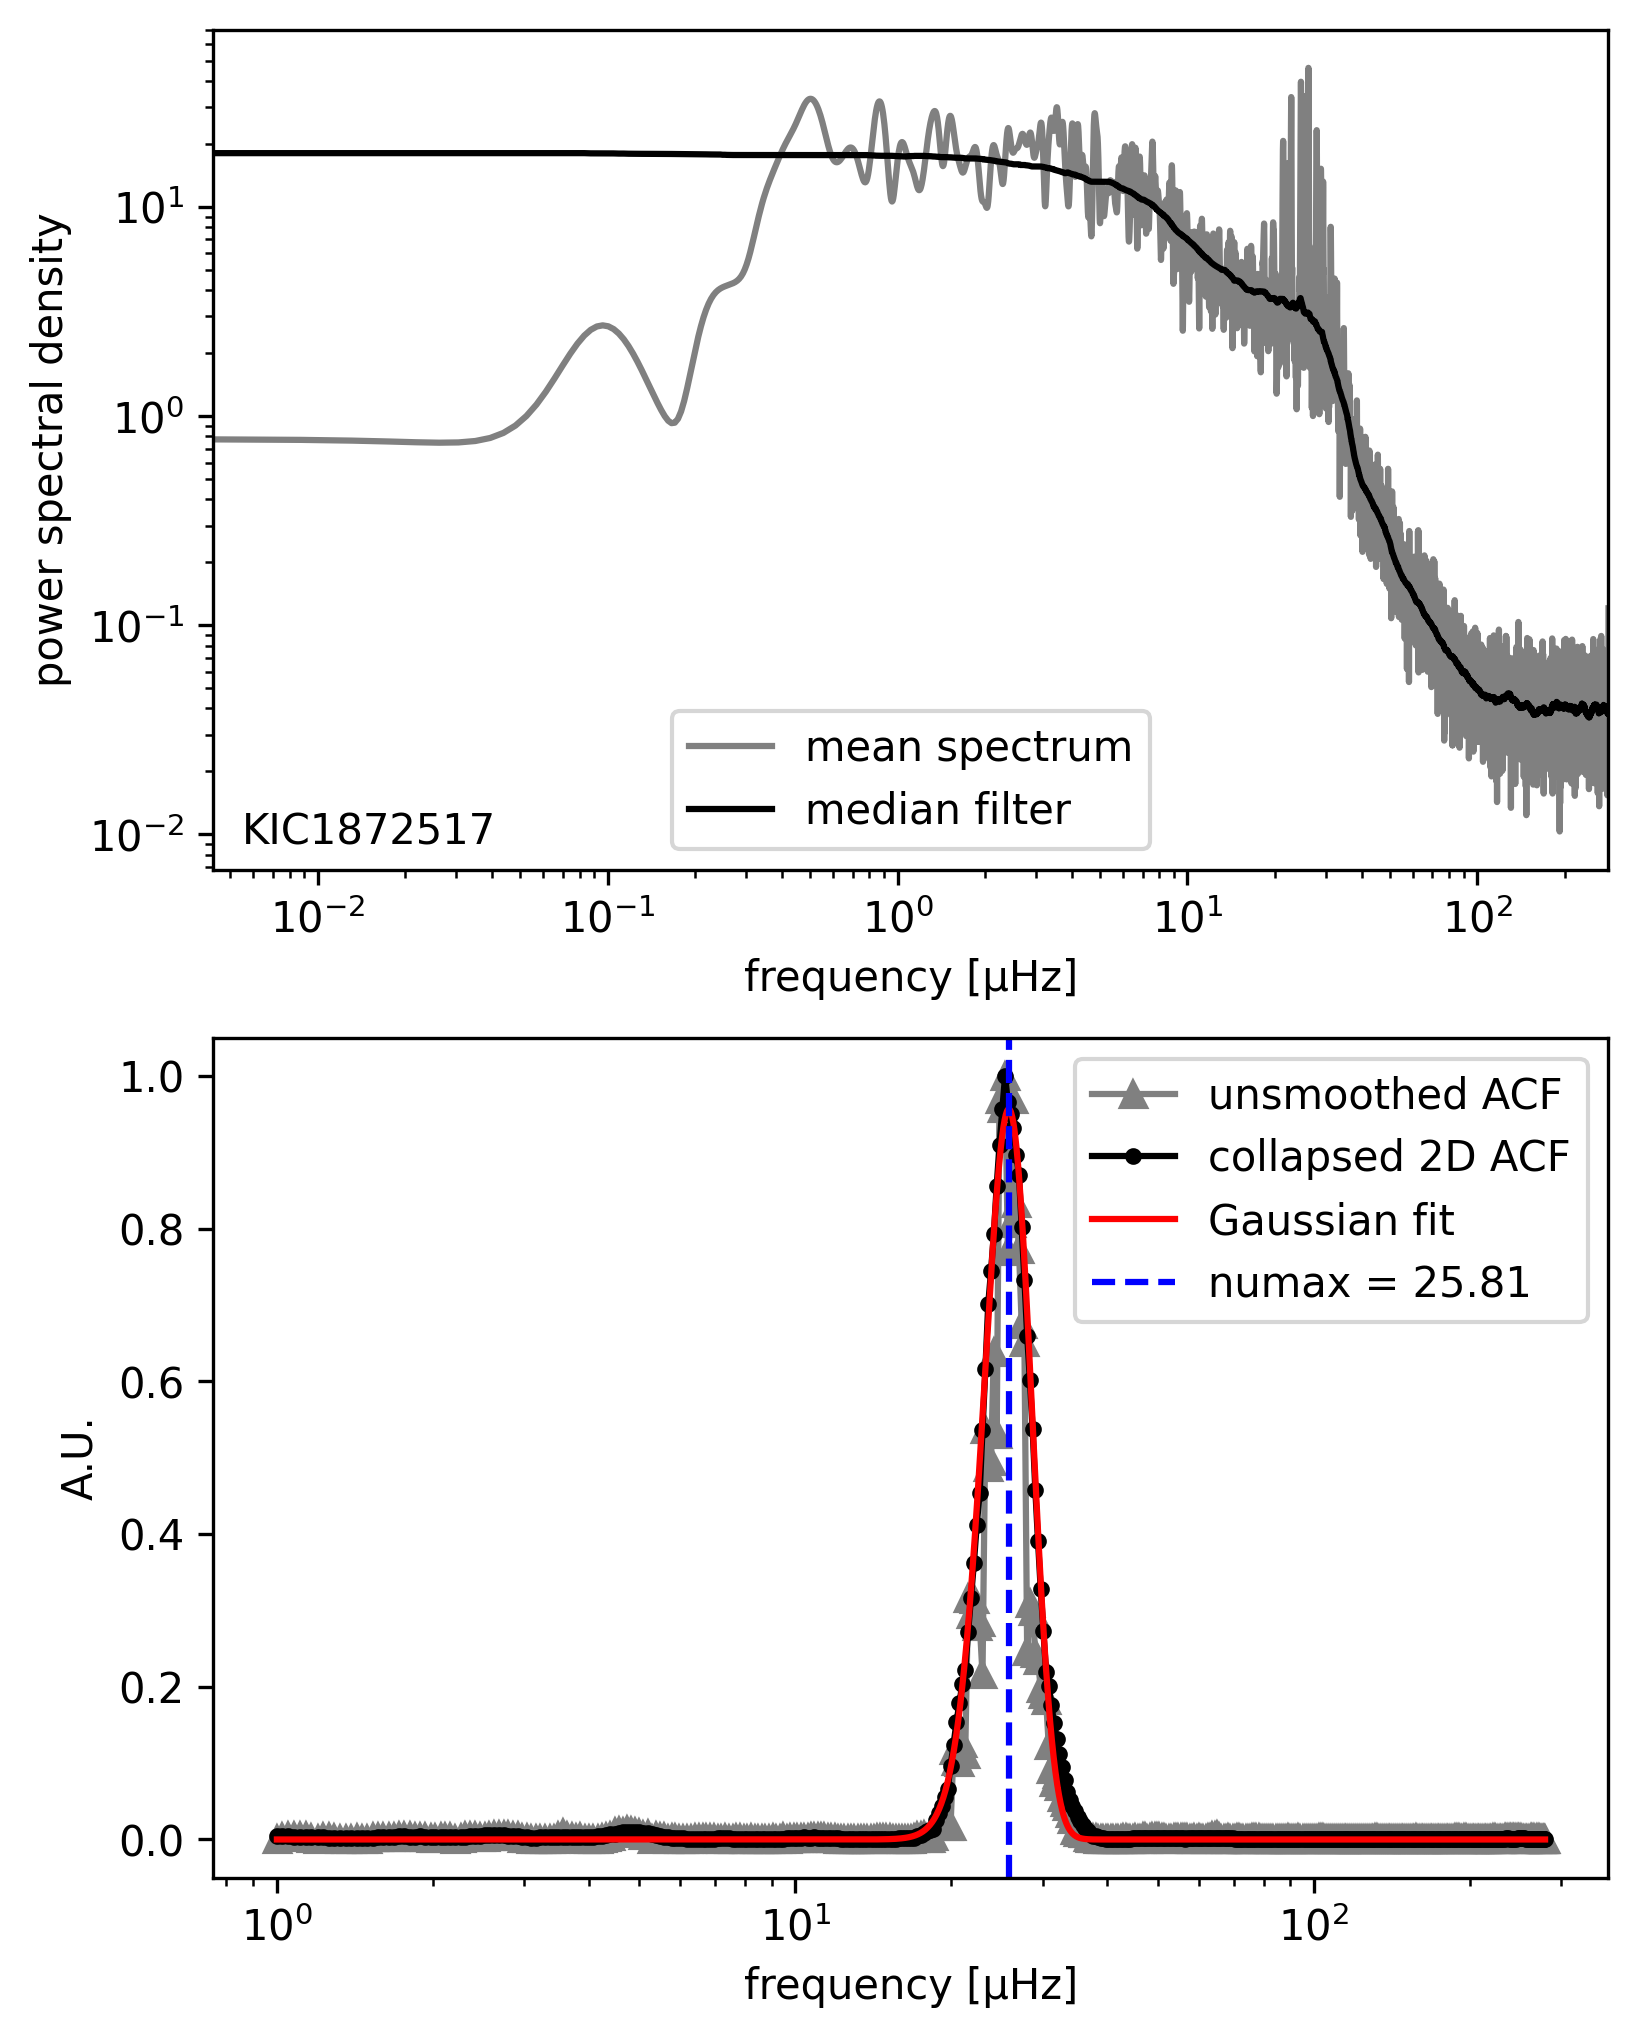
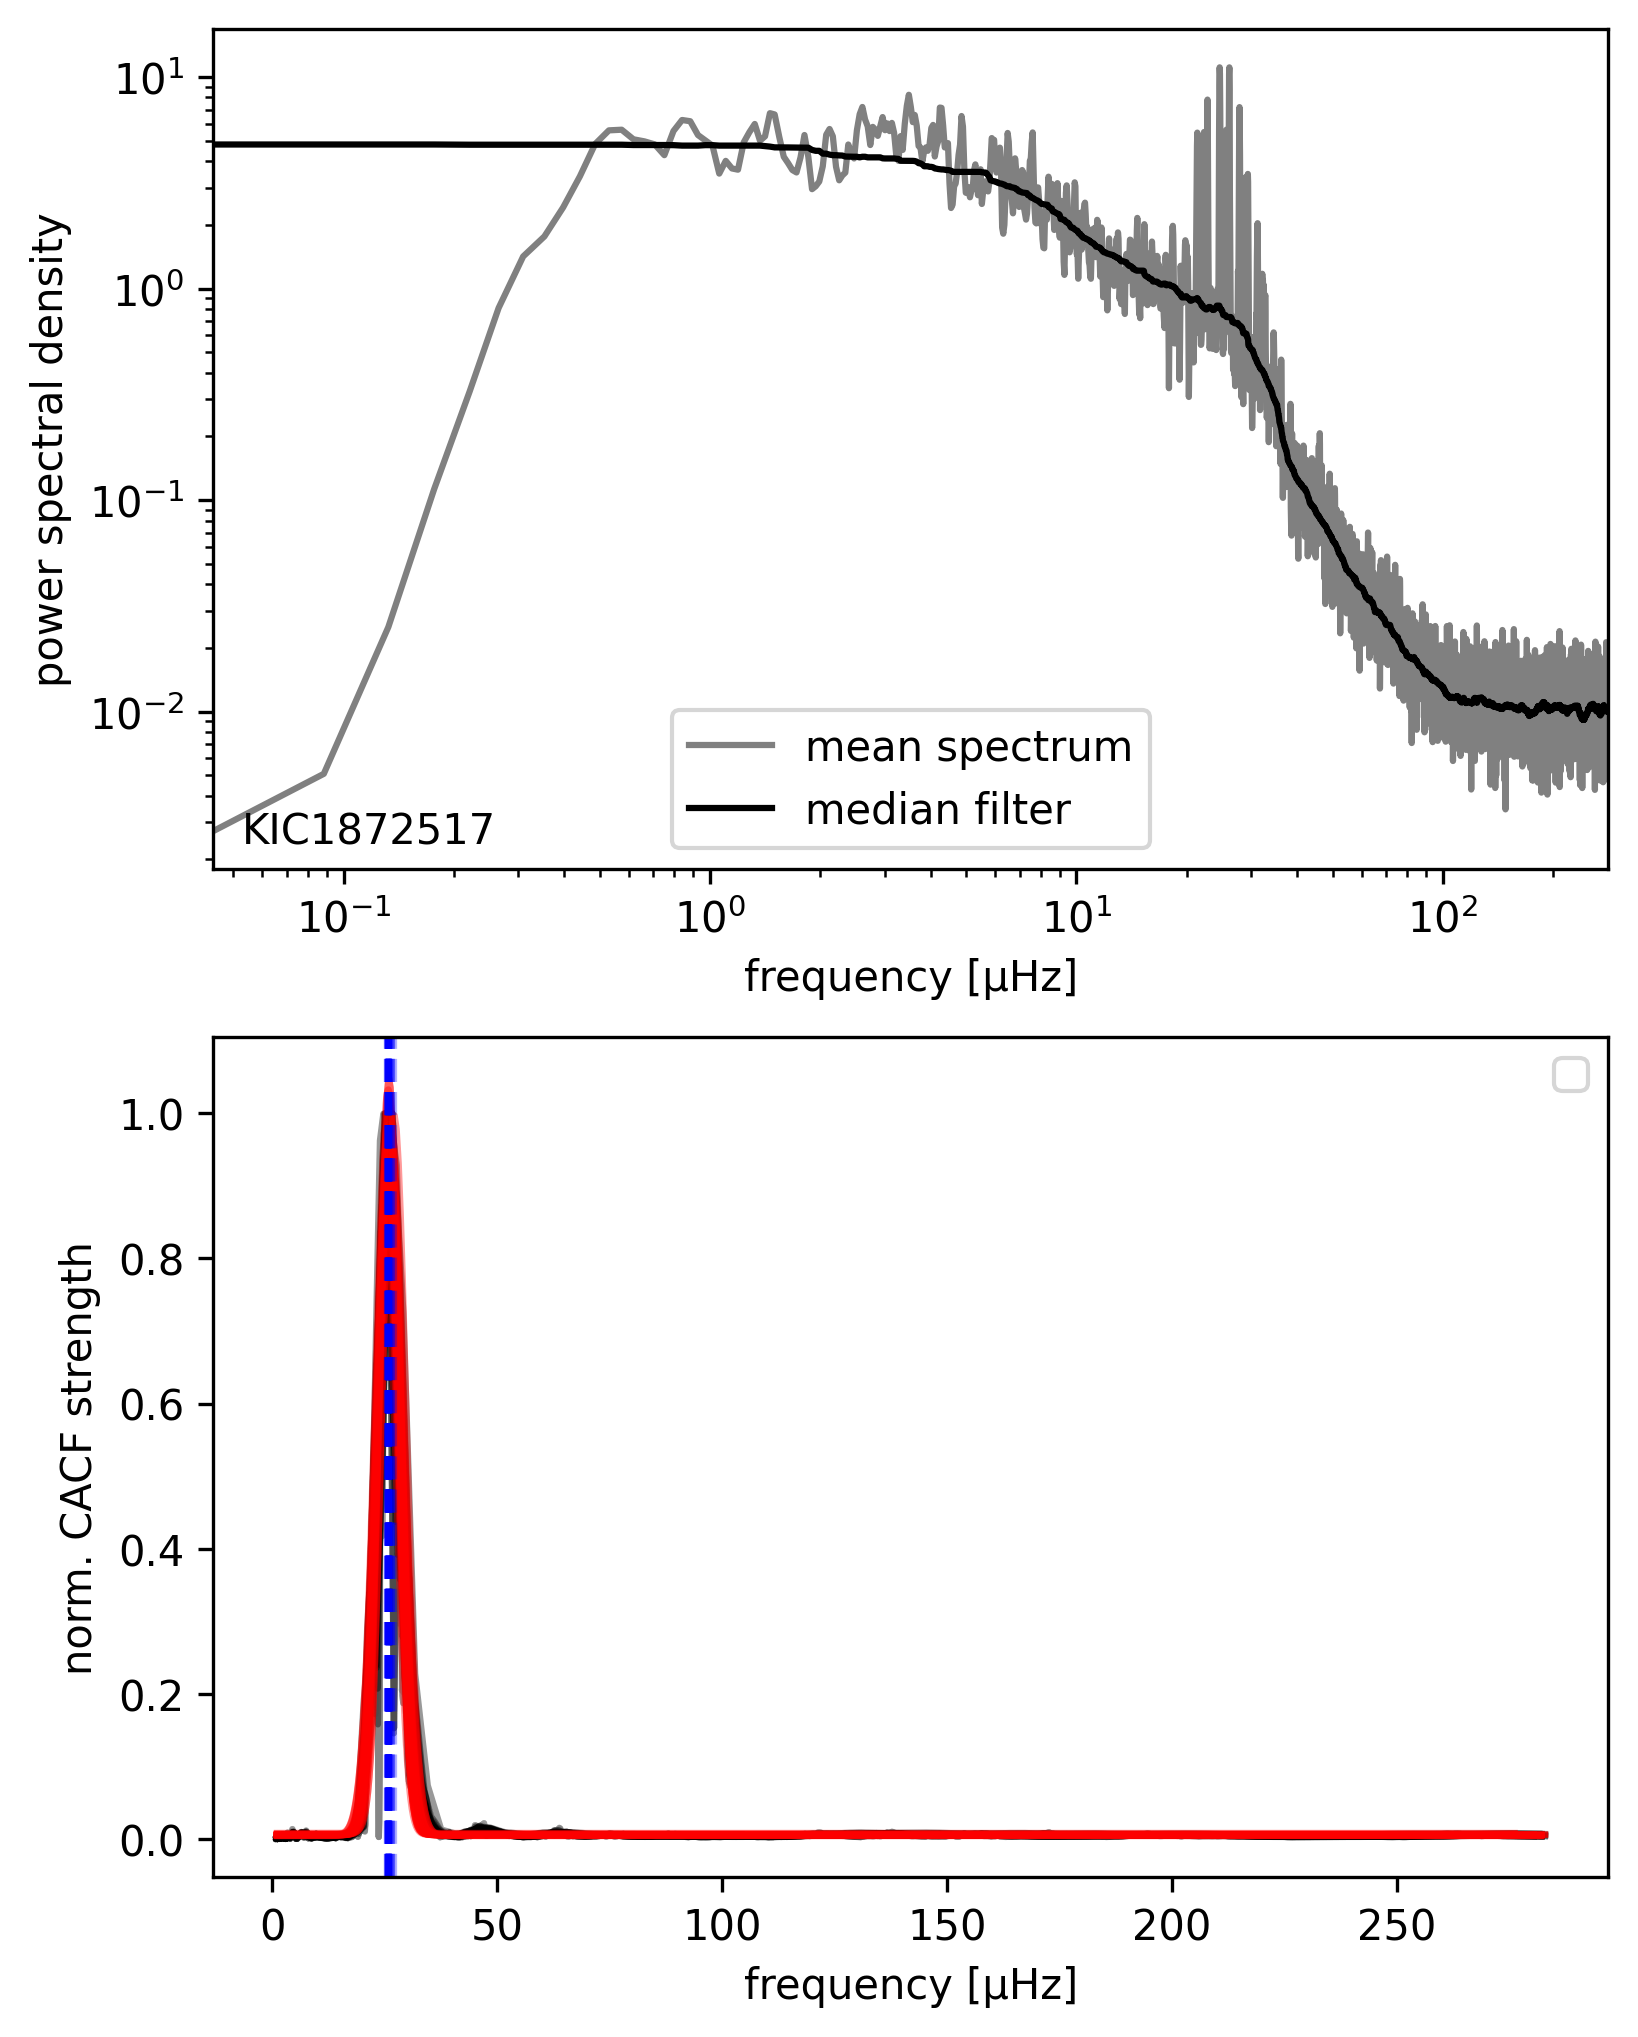
new figures

diff --git a/proxies/numax_from_CoV.py b/proxies/numax_from_CoV.py
@@ -9,7 +9,7 @@ from .CoV import (
     # plot_CoV_Bell
 )
 from pathlib import Path
-from .CoV import Keaton_bell_alternative as Bell
+# from .CoV import Keaton_bell_alternative as Bell
 import os
 import numpy as np
 import gzip

diff --git a/README.md b/README.md
@@ -53,4 +53,4 @@ Example of full spectrum with all numax estimates
 Example of ACF method
 ![Example of ACF method](KIC1872517/figures/ACF.png)
 Example of Coefficients of Variation method
-![Example of CoV method](KIC1872517/figures/CoVs_Bell.png)
+![Example of CoV method](KIC1872517/figures/CoVs.png)
